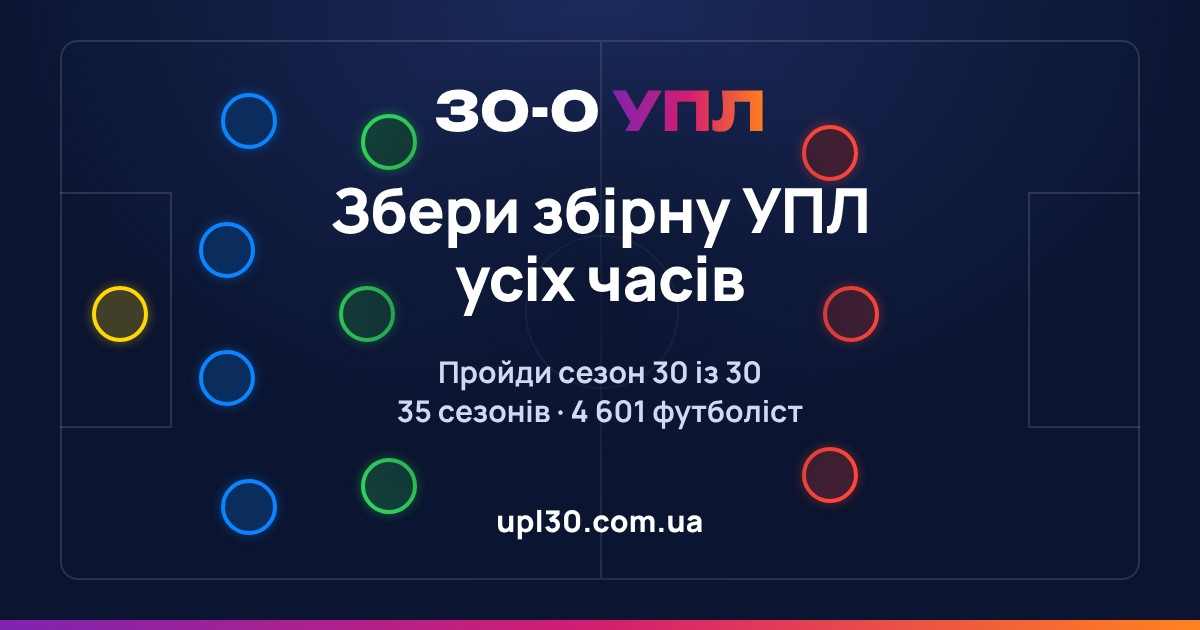
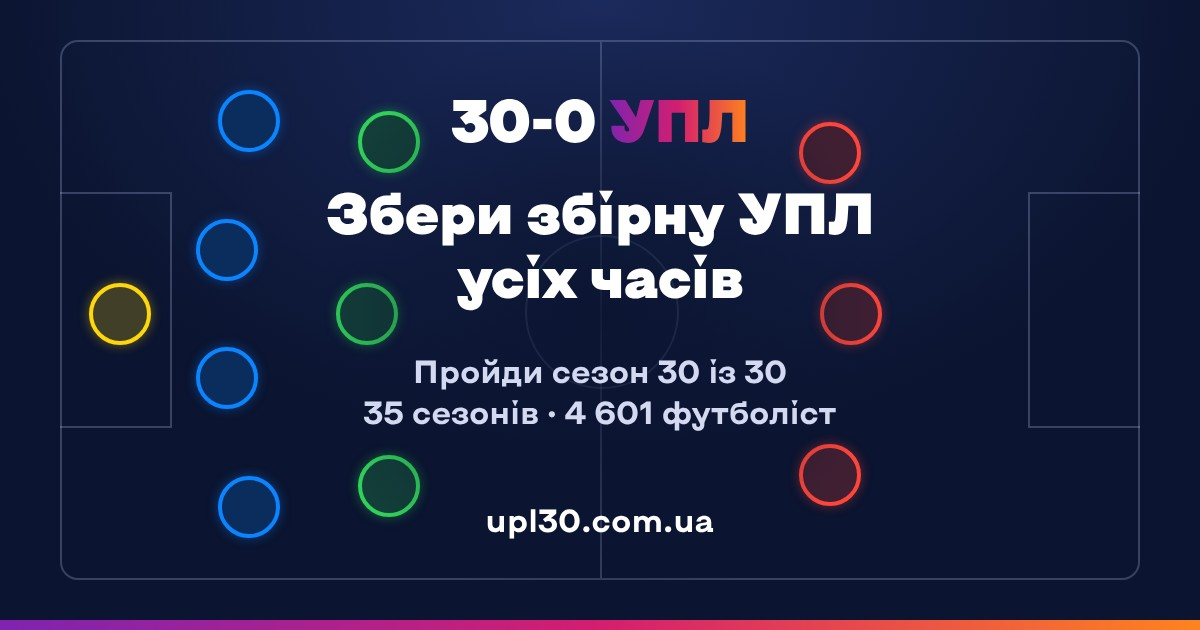
og image: site font KyivType Sans from fonts/, brighter pitch lines, larger dots
Claude-Session: https://claude.ai/code/session_01D3ku81i4XWZJWHr2wz1LYh

diff --git a/tools/make_og.js b/tools/make_og.js
@@ -1,29 +1,29 @@
 // Generates the link preview image og.jpg (1200x630) for the home page and /r. Run from repo root: node tools/make_og.js [out.jpg]
-// Unbounded and Manrope fonts are fetched from Google Fonts via curl and embedded; without network, system fonts are used.
+// Site font KyivType Sans is embedded from fonts/ so the preview matches the site and renders offline.
 // Key content stays inside the centered 630x630 square: some apps crop the preview to a square.
-const path=require('path'),{execFileSync}=require('child_process');
-const UA='Mozilla/5.0 (X11; Linux x86_64) AppleWebKit/537.36 (KHTML, like Gecko) Chrome/120 Safari/537.36';
-function fonts(){try{let css=execFileSync('curl',['-sS','-A',UA,'https://fonts.googleapis.com/css2?family=Unbounded:wght@800&family=Manrope:wght@600;700;800&subset=cyrillic&display=block']).toString();
-  for(const u of new Set(css.match(/https:[^)]+\.woff2/g)||[]))css=css.split(u).join('data:font/woff2;base64,'+execFileSync('curl',['-sS',u]).toString('base64'));return css;}catch(e){return '';}}const {launch,ROOT}=require('./tests/_page.js');
+const path=require('path'),fs=require('fs');
+const {launch,ROOT}=require('./tests/_page.js');
+function fonts(){const F=w=>'data:font/otf;base64,'+fs.readFileSync(path.join(ROOT,'fonts','KyivTypeSans-'+w+'.otf')).toString('base64');
+  return '@font-face{font-family:K;src:url('+F('Black')+');font-weight:900}@font-face{font-family:K;src:url('+F('Bold')+');font-weight:700}';}
 // 4-3-3 on a horizontal pitch, x/y in % of the pitch box; colors match the game's position tokens
 const G='#FFD60A',D='#0A84FF',M='#30D158',F='#FF453A';const XI=[[5,50,G],[17,14,D],[15,38,D],[15,62,D],[17,86,D],[30,18,M],[28,50,M],[30,82,M],[71,20,F],[73,50,F],[71,80,F]];
 const dots=XI.map(([x,y,c])=>`<i style="left:${x}%;top:${y}%;--c:${c}"></i>`).join('');
 const HTML=`<!doctype html><html><head><meta charset="utf-8">
 <style>${fonts()}
-body{margin:0;width:1200px;height:630px;overflow:hidden;background:radial-gradient(80% 110% at 50% 0%,#1b2a5c 0,#0b1430 65%);color:#fff;font-family:Manrope,system-ui,sans-serif;position:relative}
-.p{position:absolute;left:60px;right:60px;top:40px;bottom:50px;border:2px solid rgba(255,255,255,.13);border-radius:18px}
-.p::before{content:"";position:absolute;left:50%;top:0;bottom:0;border-left:2px solid rgba(255,255,255,.13)}
-.p::after{content:"";position:absolute;left:50%;top:50%;width:150px;height:150px;margin:-75px 0 0 -75px;border:2px solid rgba(255,255,255,.13);border-radius:50%}
-.p b{position:absolute;top:28%;bottom:28%;width:110px;border:2px solid rgba(255,255,255,.13)}
+body{margin:0;width:1200px;height:630px;overflow:hidden;background:radial-gradient(80% 110% at 50% 0%,#1b2a5c 0,#0b1430 65%);color:#fff;font-family:K,system-ui,sans-serif;position:relative}
+.p{position:absolute;left:60px;right:60px;top:40px;bottom:50px;border:2px solid rgba(200,215,255,.24);border-radius:18px}
+.p::before{content:"";position:absolute;left:50%;top:0;bottom:0;border-left:2px solid rgba(200,215,255,.24)}
+.p::after{content:"";position:absolute;left:50%;top:50%;width:150px;height:150px;margin:-75px 0 0 -75px;border:2px solid rgba(200,215,255,.24);border-radius:50%}
+.p b{position:absolute;top:28%;bottom:28%;width:110px;border:2px solid rgba(200,215,255,.24)}
 .p b:first-of-type{left:-2px;border-left:0}.p b:last-of-type{right:-2px;border-right:0}
-.p i{position:absolute;width:48px;height:48px;margin:-24px 0 0 -24px;border-radius:50%;border:4px solid var(--c);background:color-mix(in srgb,var(--c) 22%,#0b1430);box-shadow:0 0 12px color-mix(in srgb,var(--c) 40%,transparent)}
+.p i{position:absolute;width:54px;height:54px;margin:-27px 0 0 -27px;border-radius:50%;border:4px solid var(--c);background:color-mix(in srgb,var(--c) 22%,#0b1430);box-shadow:0 0 12px color-mix(in srgb,var(--c) 40%,transparent)}
 .v{position:absolute;inset:0;background:radial-gradient(24% 48% at 50% 50%,rgba(11,20,48,.85) 0,rgba(11,20,48,0) 100%)}
 .t{position:absolute;left:285px;width:630px;text-align:center}
-.l{top:84px;font:800 54px/1 Unbounded,system-ui;letter-spacing:-.01em}
+.l{top:88px;font:900 60px/1 K,system-ui;letter-spacing:-.03em}
 .l span{background:linear-gradient(90deg,#7e24b0,#d41e6f,#ff831e);-webkit-background-clip:text;background-clip:text;color:transparent}
-.h{top:176px;font:800 62px/1.1 Manrope,system-ui;letter-spacing:-.01em}
-.s{top:352px;font:700 30px/1.3 Manrope;color:#d3d9f0}
-.u{top:500px;font:800 30px Manrope;color:#fff;letter-spacing:.01em}
+.h{top:180px;font:900 58px/1.1 K,system-ui;letter-spacing:-.02em}
+.s{top:350px;font:700 32px/1.28 K,system-ui;color:#d3d9f0}
+.u{top:500px;font:700 32px K,system-ui;color:#fff;letter-spacing:.01em}
 .bar{position:absolute;left:0;right:0;bottom:0;height:10px;background:linear-gradient(90deg,#7e24b0,#d41e6f,#ff831e)}</style></head>
 <body><div class="p"><b></b><b></b>${dots}</div><div class="v"></div>
 <div class="t l">30-0 <span>УПЛ</span></div>
